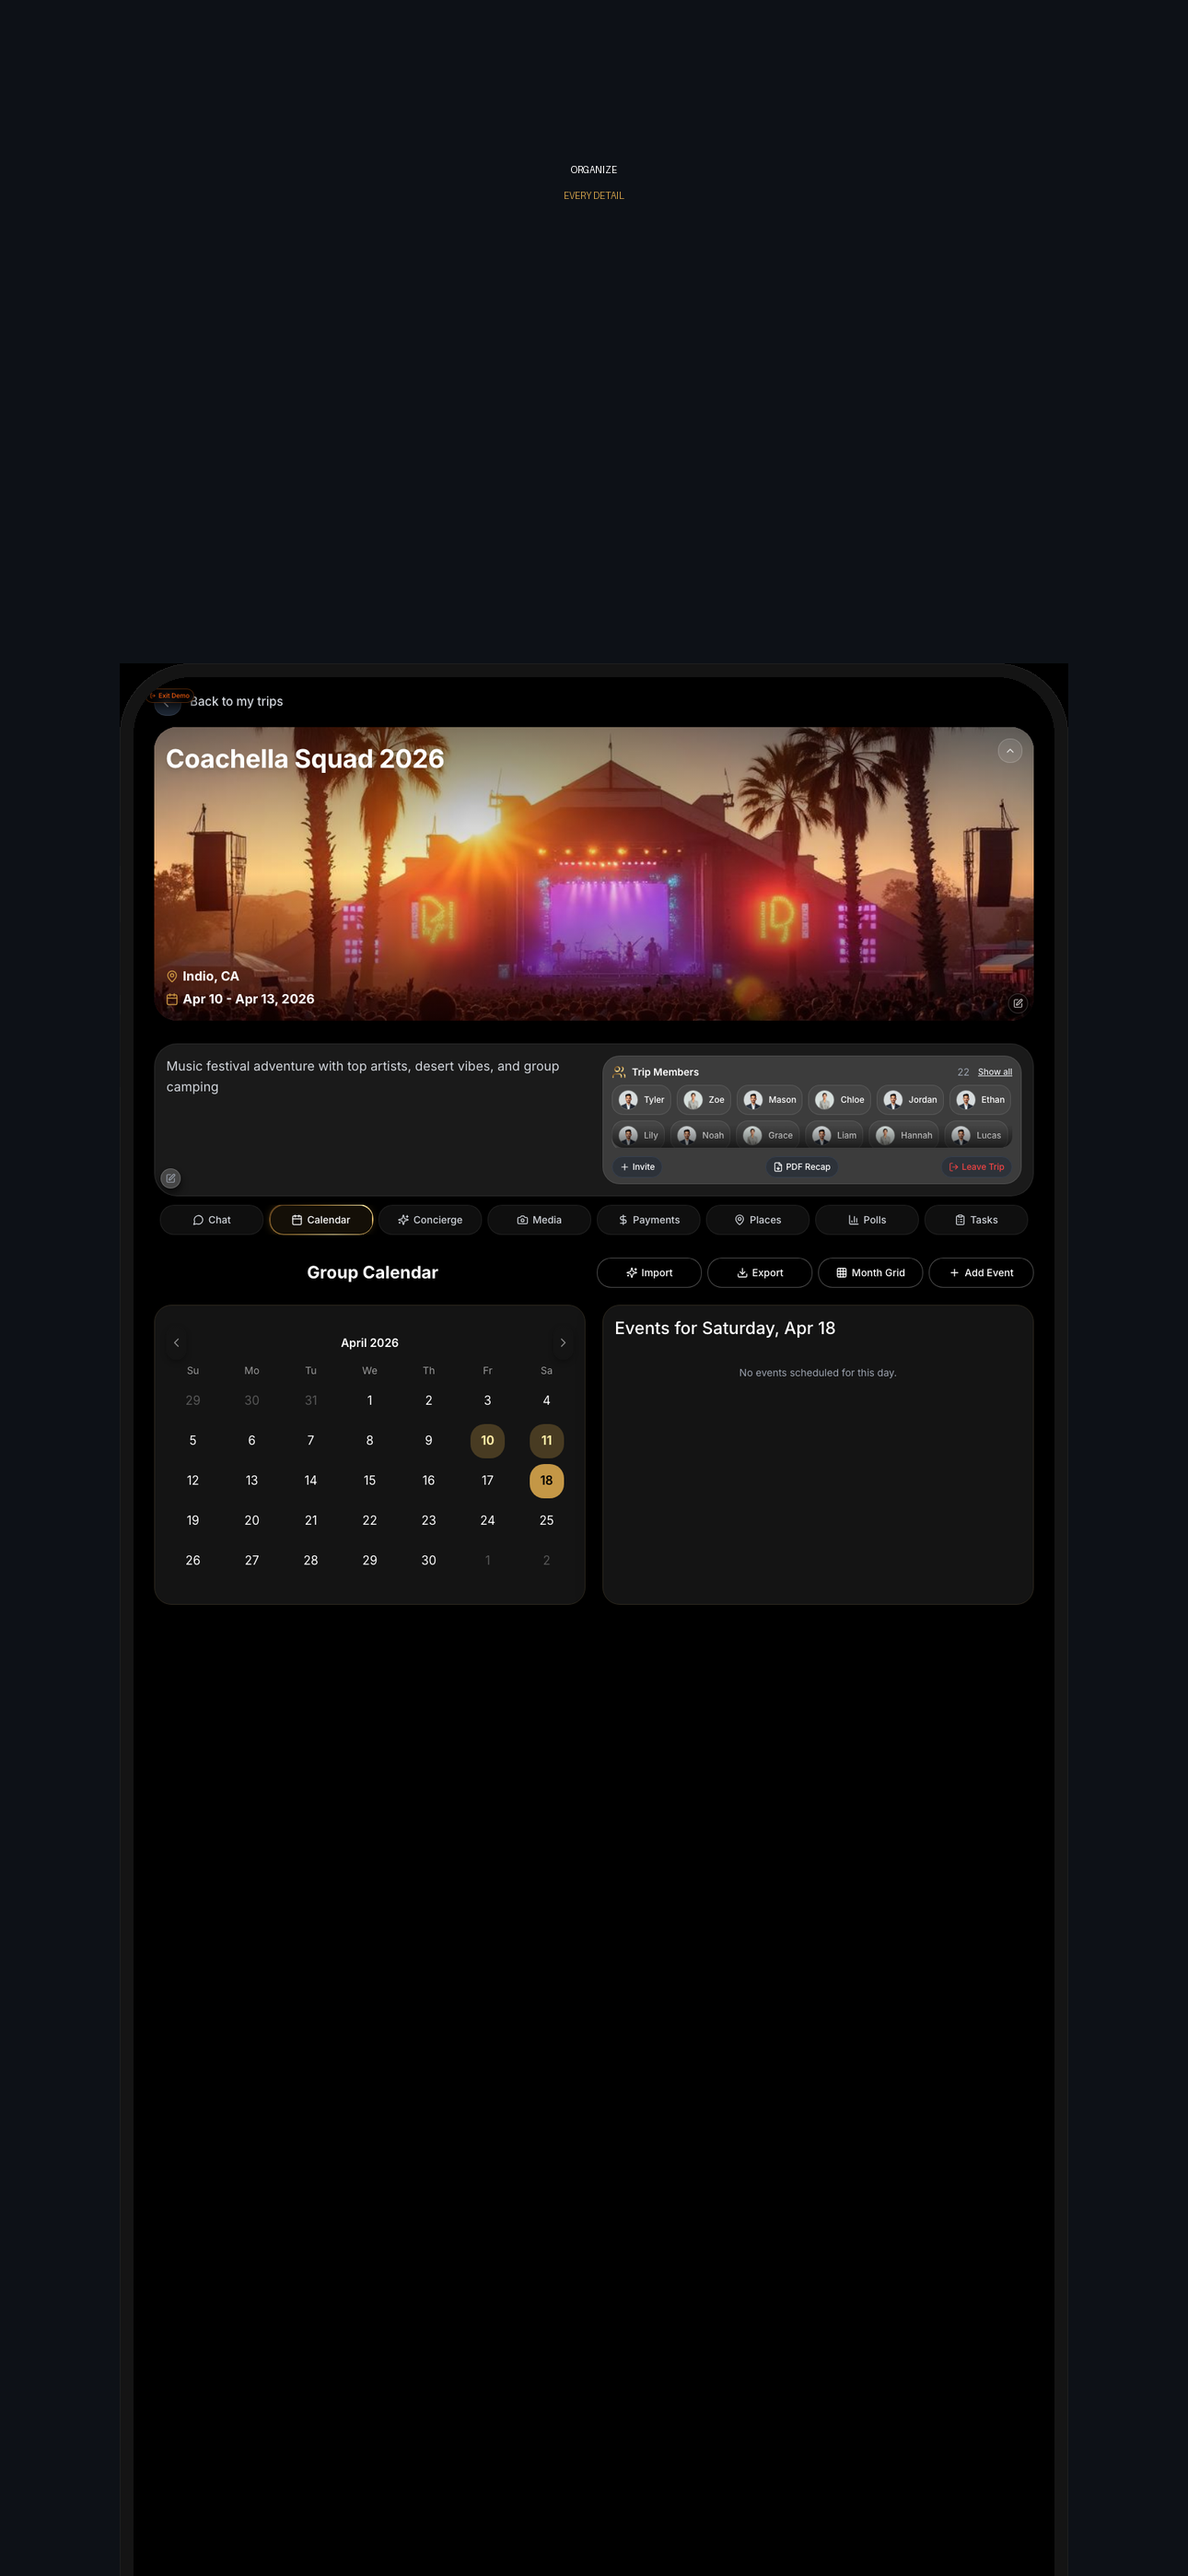
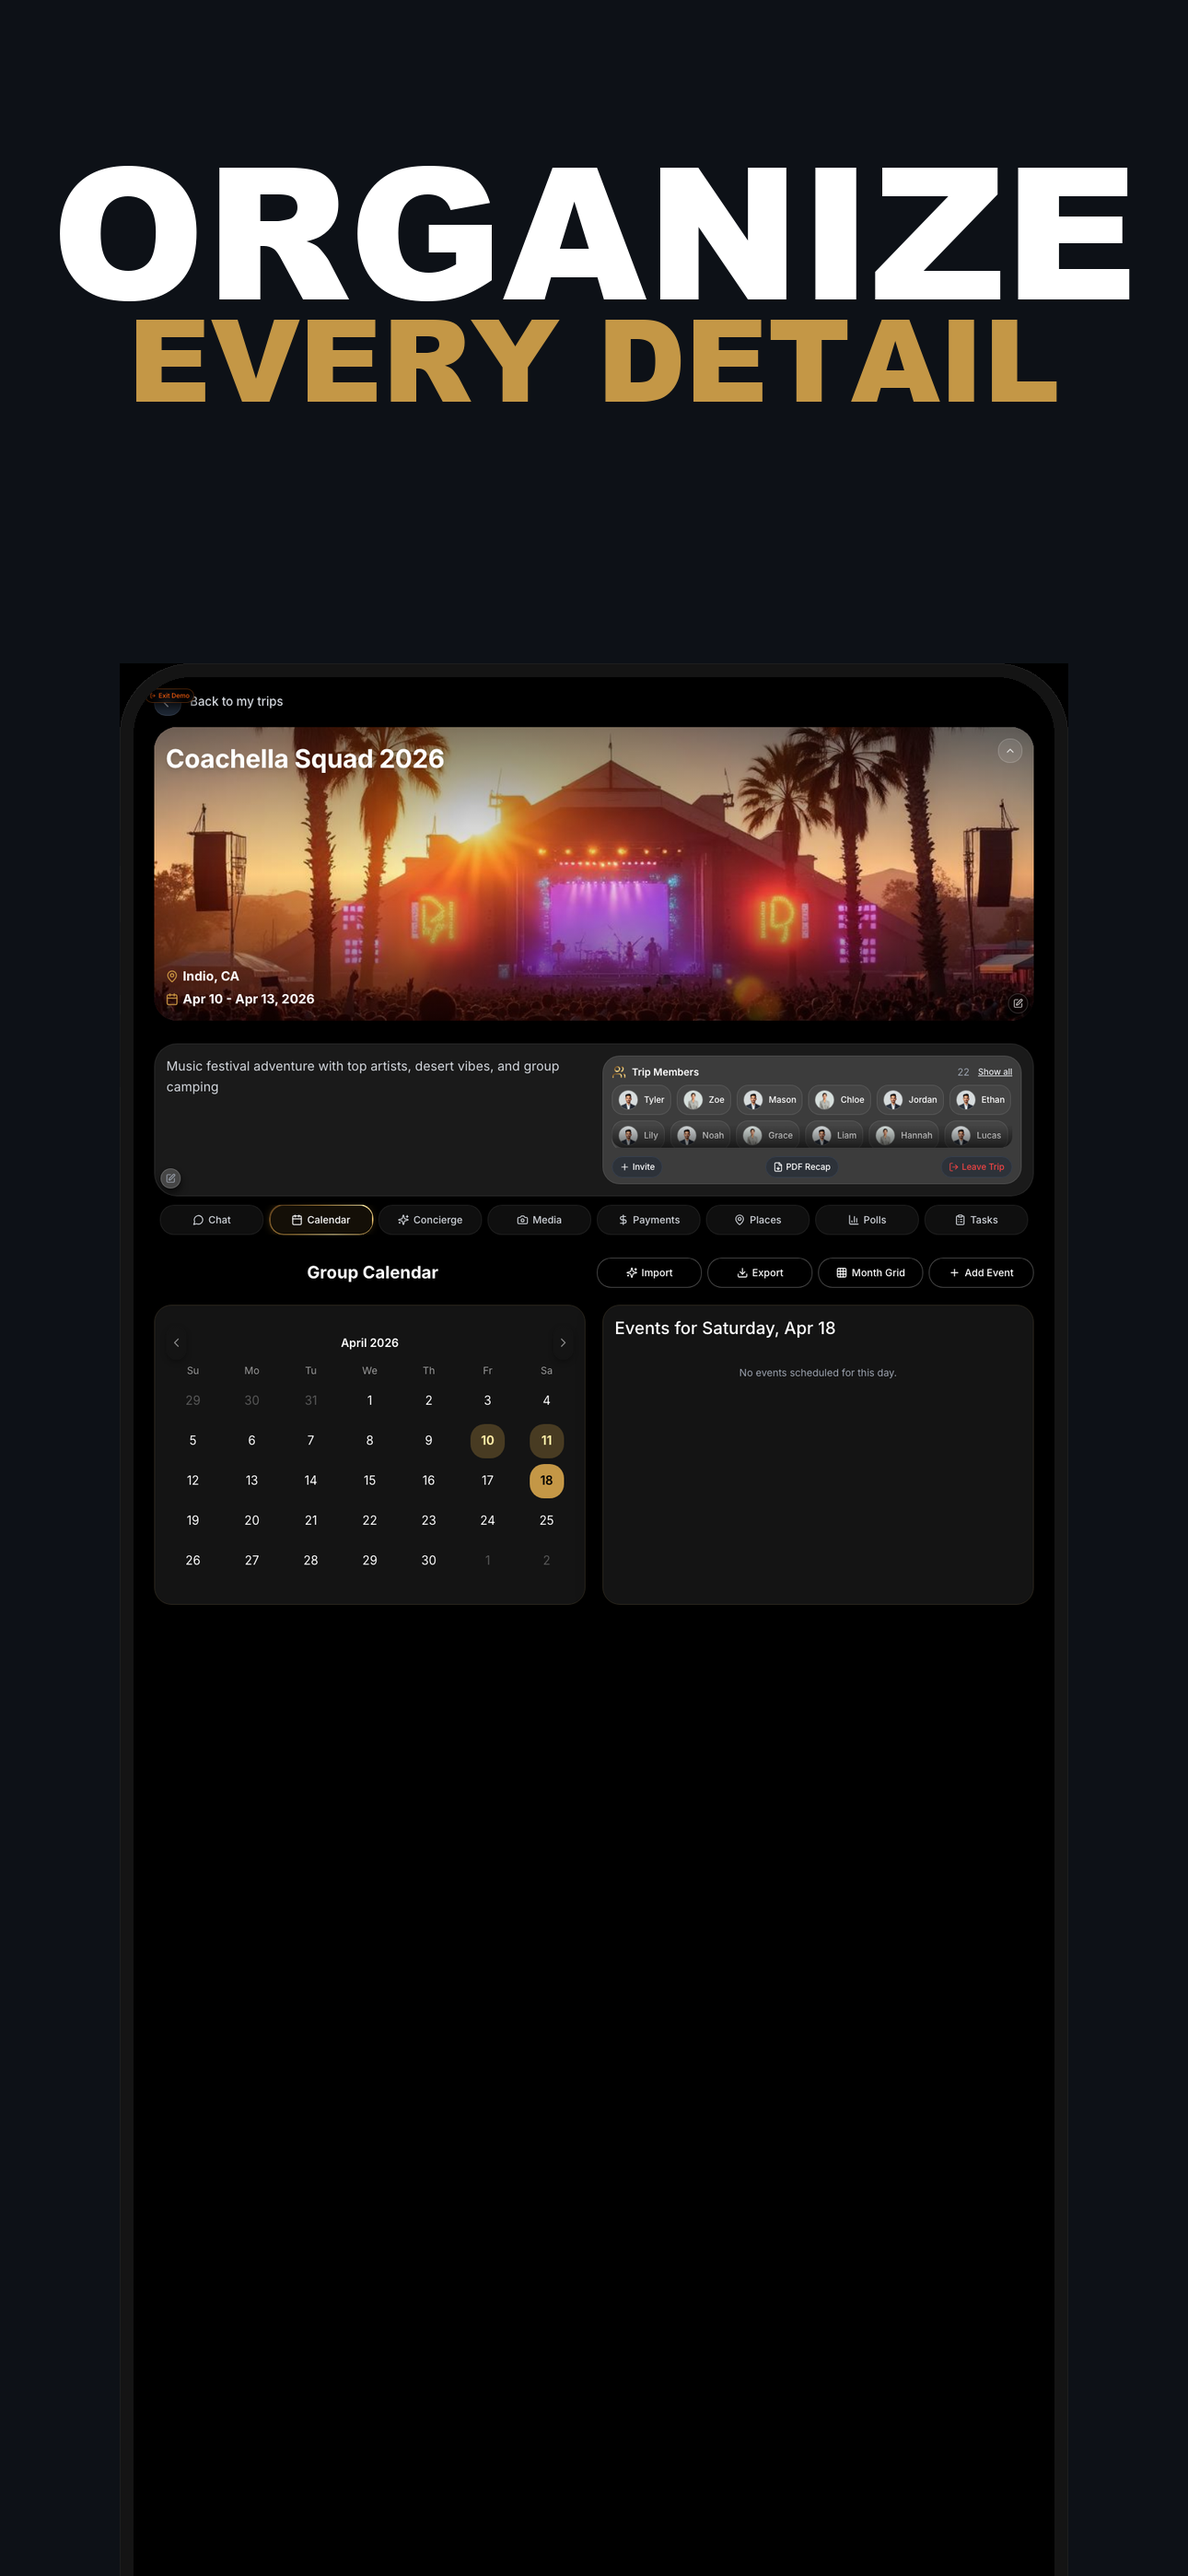
fix(screenshots): add macOS system font fallback for headline rendering
The compose scripts only searched for SF-Pro-Display-Black.otf (not
installed on stock macOS) then fell back to PILs 10px bitmap font,
making headlines invisible. Add Arial Black and other guaranteed macOS
system fonts to FONT_PATHS so headlines render on any Mac.

Changed region(s): [[0.031, 0.0622, 0.9612, 0.1556]]

diff --git a/appstore/scripts/compose_screenshot.py b/appstore/scripts/compose_screenshot.py
@@ -45,12 +45,19 @@ VERB_SIZE_MAX = 256
 VERB_SIZE_MIN = 150
 DESC_SIZE = 124
 
-# Font search paths (Linux-friendly)
+# Font search paths (macOS + Linux)
 FONT_PATHS = [
-    "/Library/Fonts/SF-Pro-Display-Black.otf",          # macOS
-    "/usr/share/fonts/truetype/dejavu/DejaVuSans-Bold.ttf",  # Linux
-    "/usr/share/fonts/truetype/liberation/LiberationSans-Bold.ttf",  # Linux alt
-    "/usr/share/fonts/truetype/freefont/FreeSansBold.ttf",   # Linux fallback
+    # macOS — SF Pro Display Black (preferred; requires Apple SF Pro dev fonts)
+    "/Library/Fonts/SF-Pro-Display-Black.otf",
+    "/System/Library/Fonts/SF-Pro-Display-Black.otf",
+    # macOS — guaranteed system fonts (heavy weights for headlines)
+    "/System/Library/Fonts/Supplemental/Arial Black.ttf",
+    "/System/Library/Fonts/Supplemental/Impact.ttf",
+    "/System/Library/Fonts/Supplemental/Arial Bold.ttf",
+    # Linux (CI / sandbox)
+    "/usr/share/fonts/truetype/dejavu/DejaVuSans-Bold.ttf",
+    "/usr/share/fonts/truetype/liberation/LiberationSans-Bold.ttf",
+    "/usr/share/fonts/truetype/freefont/FreeSansBold.ttf",
 ]
 
 

diff --git a/appstore/scripts/compose_screenshot_ipad.py b/appstore/scripts/compose_screenshot_ipad.py
@@ -45,12 +45,19 @@ VERB_SIZE_MAX = 220
 VERB_SIZE_MIN = 140
 DESC_SIZE = 110
 
-# Font search paths (Linux-friendly)
+# Font search paths (macOS + Linux)
 FONT_PATHS = [
-    "/Library/Fonts/SF-Pro-Display-Black.otf",          # macOS
-    "/usr/share/fonts/truetype/dejavu/DejaVuSans-Bold.ttf",  # Linux
-    "/usr/share/fonts/truetype/liberation/LiberationSans-Bold.ttf",  # Linux alt
-    "/usr/share/fonts/truetype/freefont/FreeSansBold.ttf",   # Linux fallback
+    # macOS — SF Pro Display Black (preferred; requires Apple SF Pro dev fonts)
+    "/Library/Fonts/SF-Pro-Display-Black.otf",
+    "/System/Library/Fonts/SF-Pro-Display-Black.otf",
+    # macOS — guaranteed system fonts (heavy weights for headlines)
+    "/System/Library/Fonts/Supplemental/Arial Black.ttf",
+    "/System/Library/Fonts/Supplemental/Impact.ttf",
+    "/System/Library/Fonts/Supplemental/Arial Bold.ttf",
+    # Linux (CI / sandbox)
+    "/usr/share/fonts/truetype/dejavu/DejaVuSans-Bold.ttf",
+    "/usr/share/fonts/truetype/liberation/LiberationSans-Bold.ttf",
+    "/usr/share/fonts/truetype/freefont/FreeSansBold.ttf",
 ]
 
 
